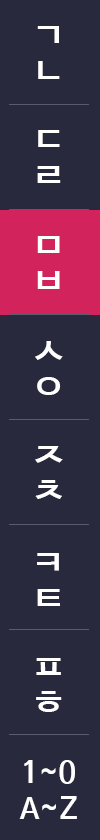
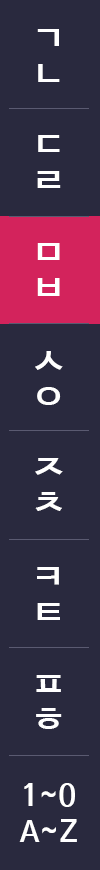
-관광지 추가 -미술관 메인사이드바 추가 -기타 css수정

diff --git a/src/main/webapp/resources/js/main.js b/src/main/webapp/resources/js/main.js
@@ -63,6 +63,7 @@ function initUsageStt(){
 	usageJson.dongbu = 0;
 	usageJson.parking = 0;
 	usageJson.hours = 0;
+	usageJson.tour = 0;
 }
 
 function setUsageStt(now_time){
@@ -83,7 +84,8 @@ function setUsageStt(now_time){
 		museum_cnt: usageJson.museum,
 		dongbu_cnt: usageJson.dongbu,
 		parking_cnt: usageJson.parking,
-		hours_cnt: usageJson.hours
+		hours_cnt: usageJson.hours,
+		tour_cnt: usageJson.tour
 	};
 	
 	$.ajax({
@@ -318,12 +320,12 @@ function showSideTop(index_num) {
 	switch (index_num) {
 		//메인
 		case 1: {
-			//for(var i = 0; i < 3; i++){ 관광지 모드
-			for(var i = 0; i < 2; i++){
+			for(var i = 0; i < 3; i++){ //관광지 모드
+			//for(var i = 0; i < 2; i++){
 				html_string += '<div class="div_main_side_top" onclick="javascript:setMainSide(this, ' + i + ');"></div>';
 			}
-			html_string += '<div style="width:100%; height:30px;"></div>';
-			for(var i = 3; i < 8; i++){
+			//html_string += '<div style="width:100%; height:30px;"></div>';
+			for(var i = 3; i < 9; i++){
 				html_string += '<div class="div_main_side_mid" onclick="javascript:showCulture(' + (i - 3) + ');"></div>';
 			}
 			setSide(0);
@@ -340,13 +342,15 @@ function showSideTop(index_num) {
 		//첨단문화산업단지
 		case 2: {
 			if(language == "korean"){
-				for(var i = 0; i <= 7; i++){
+				for(var i = 0; i <= 6; i++){
 					html_string += '<div class="div_side_area0_ko" onclick="javascript:setSideArea0(' + i + ');"></div>';
 				}
+				html_string += '<div class="div_side_area0_ko" style="height:114px;" onclick="javascript:setSideArea0(7);"></div>';
 			}else{
-				for(var i = 0; i <= 6; i++){
+				for(var i = 0; i <= 5; i++){
 					html_string += '<div class="div_side_area0_en" onclick="javascript:setSideArea0(' + i + ');"></div>';
 				}
+				html_string += '<div class="div_side_area0_en" style="height:126px;" onclick="javascript:setSideArea0(6);"></div>';
 			}
 			setIndustrySide(0);
 			break;
@@ -465,6 +469,9 @@ function setSide(index){
 		case 8: 
 			$('#div_side_top').css('background-image', 'url('+ global_json.side_top[8] +')');
 			break;
+		case 9: 
+			$('#div_side_top').css('background-image', 'url('+ global_json.side_top[9] +')');
+			break;
 	}
 }
 
@@ -485,9 +492,9 @@ function setMainSide(document, index_num) {
 			break;
 		}
 		case 2: { //청주관광지
+			usageJson.tour += 1;
 			setSide(3);
-			$('#div_contents').html('');
-			$('#div_contents').css('background-image', 'url('+ global_json.tour +')');
+			showTour();
 			break;
 		}
 	}
@@ -561,6 +568,10 @@ function backPage(current_depth){
 		}
 		case 7: { //동부창고
 			$('#div_side_back').attr('onclick', 'showDongbu()');
+			break;
+		}
+		case 8: { //관광지
+			$('#div_side_back').attr('onclick', 'showTour()');
 			break;
 		}
 	}

diff --git a/src/main/webapp/resources/css/tour.css b/src/main/webapp/resources/css/tour.css
@@ -1,0 +1,108 @@
+@charset "UTF-8";
+
+:root {
+}
+
+#div_tour_area0 {
+	position:absolute;
+	top: 217px;
+	left: 522px;
+	width: 160px;
+	height: 100px;
+}
+
+#div_tour_area1 {
+	position:absolute;
+	top: 295px;
+	left: 360px;
+	width: 160px;
+	height: 100px;
+}
+
+#div_tour_area2 {
+	position:absolute;
+	top: 320px;
+	left: 598px;
+	width: 160px;
+	height: 100px;
+}
+
+#div_tour_area3 {
+	position:absolute;
+	top: 420px;
+	left: 239px;
+	width: 140px;
+	height: 100px;
+}
+
+#div_tour_area4 {
+	position:absolute;
+	top: 406px;
+	left: 394px;
+	width: 120px;
+	height: 90px;
+}
+
+#div_tour_area5 {
+	position:absolute;
+	top: 423px;
+	left: 520px;
+	width: 135px;
+	height: 90px;
+}
+
+#div_tour_area6 {
+	position:absolute;
+	top: 440px;
+	left: 661px;
+	width: 150px;
+	height: 100px;
+}
+
+#div_tour_area7 {
+	position:absolute;
+	top: 467px;
+	left: 824px;
+	width: 140px;
+	height: 100px;
+}
+
+#div_tour_area8 {
+	position:absolute;
+	top: 516px;
+	left: 381px;
+	width: 150px;
+	height: 90px;
+}
+
+#div_tour_area9 {
+	position:absolute;
+	top: 610px;
+	left: 301px;
+	width: 180px;
+	height: 100px;
+}
+
+#div_tour_area10 {
+	position:absolute;
+	top: 715px;
+	left: 411px;
+	width: 160px;
+	height: 90px;
+}
+
+#div_tour_detail{
+	position:absolute;
+	width: 900px;
+	height: 890px;
+	top: 40px;
+	left: 40px;
+}
+
+#close_popup{
+	width: 64px;
+	height: 64px;
+	position: absolute;
+	top: 22px;
+	right: 22px;
+}

diff --git a/src/main/webapp/resources/js/tour.js b/src/main/webapp/resources/js/tour.js
@@ -1,0 +1,33 @@
+function showTour(){
+	$('#div_contents').html('');
+	$('#div_contents').css('background-image', 'url('+ global_json.tour +')');
+	
+	var html_string = "";
+	html_string += '<div id="div_tour_area">';
+	for(var i = 0; i <= 10; i++){ //버튼
+		html_string += '<div id="div_tour_area' + i + '" onclick="javascript:showTourDetail(' + i + ');"></div>';
+	}
+	html_string += '</div>';
+	
+	$('#div_contents').html(html_string);
+	
+	backPage(1);
+}
+
+function showTourDetail(index){
+	//index
+	//0:초정행궁, 1:정북동토성, 2:상당산성, 3:고인쇄박물관, 4:수암골, 5:청주랜드, 6:미동산수목원, 7:옥화구곡, 8:충북문화관, 9:문의문화재단지
+	
+	$('#div_tour_area').hide();
+	
+	html_string = 
+		'<div id="div_contents" onclick="javascript:showTour();" style="background-color: rgba(0, 0, 0, 0.7);">'+
+			'<div id="div_tour_detail" onclick="javascript:event.stopPropagation();resetTimer();">'+
+				'<div id="close_popup" onclick="javascript:showTour();"></div>'+
+			'</div>'
+		'<div>';
+	$('#div_contents').html(html_string);
+	
+	$('#div_tour_detail').css('background-image', 'url('+ global_json.tour_detail[index] +')');
+	backPage(8);
+}

diff --git a/src/main/webapp/resources/css/main.css b/src/main/webapp/resources/css/main.css
@@ -236,13 +236,13 @@ body {
 
 #div_side_top {
 	width: 100%;
-    height: 840px;
+    height: 870px;
 }
 
 #div_side_bottom {
 	position: absolute;
 	width: 100%;
-    height: 260px;
+    height: 230px;
 }
 
 #img_shadow {
@@ -254,8 +254,7 @@ body {
 
 .div_main_side_top {
 	width: 100%;
-	/* height: 130px; 관광지*/
-	height: 195px;
+	height: 122px;
 }
 
 .div_main_side_mid {

diff --git a/src/main/webapp/resources/js/culture.js b/src/main/webapp/resources/js/culture.js
@@ -40,6 +40,12 @@ function showCulture(index_num) {
 			break;
 		}
 		case 4: {
+			//미술관
+			usageJson.museum += 1;
+			showMuseum();
+			break;
+		}
+		case 5: {
 			//산업진흥재단
 			usageJson.foundation += 1;
 			showFoundation();

diff --git a/src/main/webapp/resources/js/museum.js b/src/main/webapp/resources/js/museum.js
@@ -1,6 +1,6 @@
 function showMuseum() {
+	setSide(9);
 	var html_string = "";
-	showSideTop(1);
 	$('#div_contents').html(html_string);
 	$('#div_contents').css('background-image', 'url(' + global_json.museum + ')');
 	

diff --git a/src/main/webapp/resources/css/industry.css b/src/main/webapp/resources/css/industry.css
@@ -14,12 +14,12 @@
 
 .div_side_area0_ko {
 	width: 100px;
-	height: 105px;
+	height: 108px;
 }
 
 .div_side_area0_en {
 	width: 100px;
-	height: 120px;
+	height: 124px;
 }
 
 .div_area0_side_detail {

diff --git a/src/main/webapp/resources/css/culture_wonder.css b/src/main/webapp/resources/css/culture_wonder.css
@@ -6,7 +6,7 @@
 
 .div_side_area1_0 {
 	width: 100px;
-	height: 140px;
+	height: 145px;
 }
 
 .div_area1_0_side_detail {
